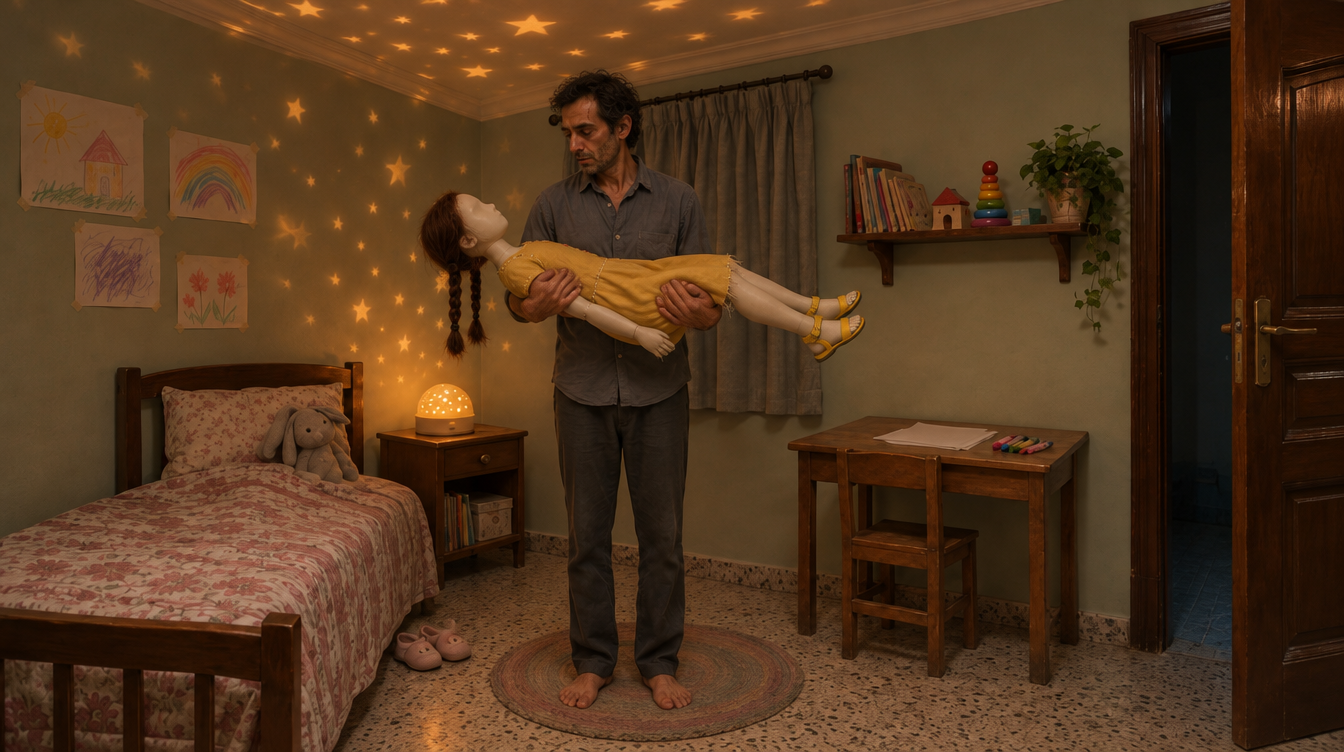
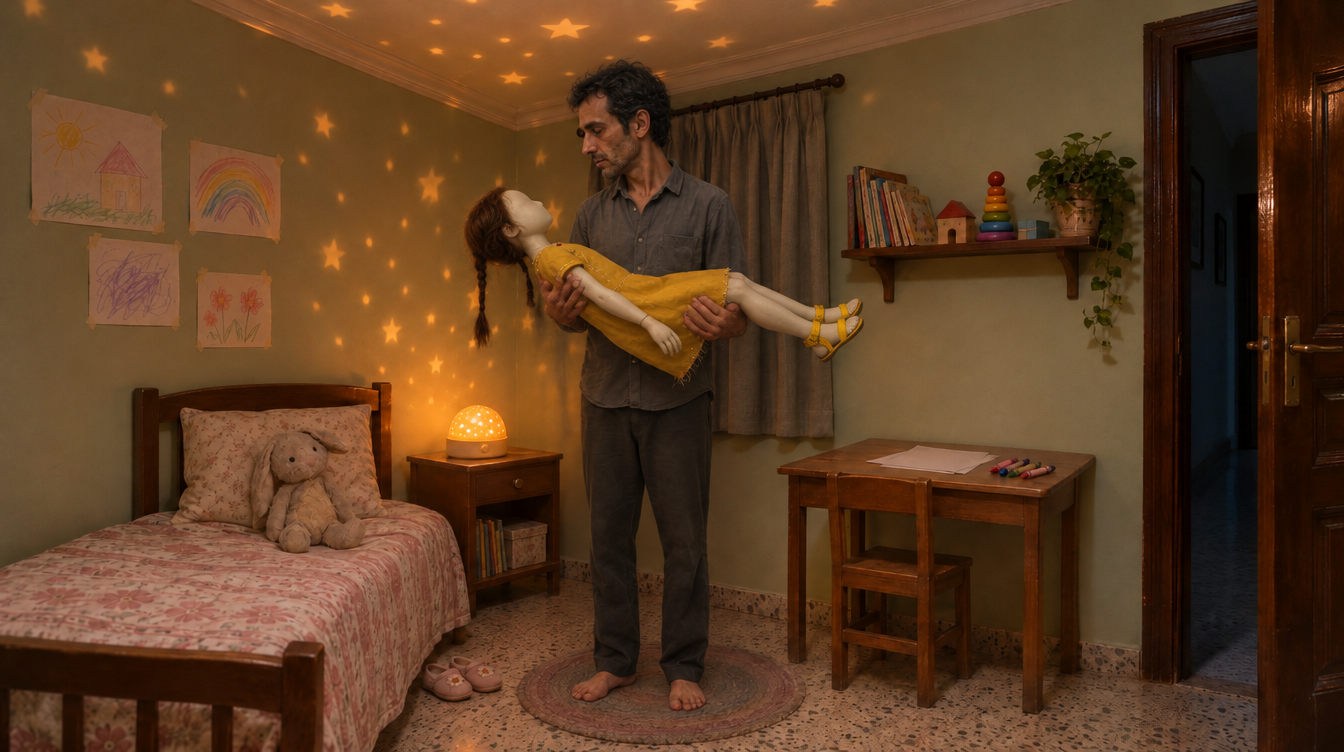
G28 start frame rebuilt on the exact L06 plate so the bed keeps its place and size
Claude-Session: https://claude.ai/code/session_01Fi6XRJHj6ujpGaMwkoN3Es

diff --git a/prompts.html b/prompts.html
@@ -1396,7 +1396,7 @@ CAMERA
 Tonal character: wide latitude, gentle highlight roll-off, rich detail held in the shadows.
 
 ACTION
-0.0s to 4.0s — At 0.5s he turns toward the bed and walks two slow steps to its side, carrying the mannequin level, its head toward the pillow. At 2.6s he stops beside the bed, still standing, the mannequin in his arms, and looks down at it.
+0.0s to 4.0s — At 0.5s he walks slowly to frame left, off the rug, three steps toward the side of the bed, carrying the mannequin level, its head toward the pillow. At 3.0s he stops beside the bed, still standing, the mannequin in his arms over the blanket, and looks down at it.
 
 PERFORMANCE
 Careful, quiet steps; his head bent over the figure; tenderness in his face. Real skin with visible pores and fine texture, living eyes with catch-lights, breath visible in the chest and shoulders.
@@ -1423,7 +1423,7 @@ POSITIVE LOCKS
 - Every paper, label and envelope is blank.
 - The camera holds the exact wide of the start frame for the whole shot.
 - The mannequin stays in his arms, lined up along the length of the bed.
-- The bed, the bedside table and the glowing night-light keep their exact places from the start frame.
+- The bed, the bedside table, the night-light, the desk and the rug keep the exact places and sizes of @image4.
 - Adam stays standing for the whole shot.</pre></section><section id='G29'><header><h2>G29</h2><div class='meta'><b>7 · Bedtime</b> · shots 46, 47, 48 · <span class='pill'>16s</span> <span class='pill'>16:9</span></div><button onclick="cp(this)">Copy prompt</button></header><div class='att'>Attach in order: <code>@image1 = adam</code><code>@image2 = doll-daughter</code><code>@image3 = P10_rabbit</code><code>@image4 = L06_nour-room</code></div><pre>SCENE CONTEXT
 Night in a child&#x27;s bedroom. @image1 tucks @image2 into bed and sets the stuffed rabbit beside it; he kisses its forehead and stays a moment too long as projected stars drift over his face; from the doorway he switches off the lamp and only the stars remain.
 

diff --git a/tools/build_prompts.py b/tools/build_prompts.py
@@ -459,12 +459,12 @@ run(id="G28", scene="7 · Bedtime", nums="45", look="P", attach=["adam", "doll-d
     map="Camera exactly as in the start frame: the whole room in one wide. Frame left: the bed along the left wall with {P10_rabbit} on the pillow, the bedside table and glowing night-light. Centre: the round rug. Frame right: the small desk and chair, the open door at the far right edge.",
     first="The first frame is the start image itself: Adam on the rug, the child mannequin across his arms with its head toward the bed, the bed empty except for the rabbit.",
     segs=[(4, None, "WS", "63°", "locked, eye level, the frame of the start image",
-           "At <0.5> he turns toward the bed and walks two slow steps to its side, carrying the mannequin level, its head toward the pillow. At <2.6> he stops beside the bed, still standing, the mannequin in his arms, and looks down at it.", [])],
+           "At <0.5> he walks slowly to frame left, off the rug, three steps toward the side of the bed, carrying the mannequin level, its head toward the pillow. At <3.0> he stops beside the bed, still standing, the mannequin in his arms over the blanket, and looks down at it.", [])],
     perf="Careful, quiet steps; his head bent over the figure; tenderness in his face.",
     phys="The mannequin keeps its rigid straight shape in his arms; only the wig's braids swing. Its legs stay clear of the furniture and walls.",
     light="Only the star night-light on the bedside table: amber stars drifting over the walls, the ceiling and Adam. White balance 4300K.",
     audio="Slow bare footsteps on terrazzo; the faint tick of the night-light motor.",
-    locks=["The camera holds the exact wide of the start frame for the whole shot.", "The mannequin stays in his arms, lined up along the length of the bed.", "The bed, the bedside table and the glowing night-light keep their exact places from the start frame.", "Adam stays standing for the whole shot."])
+    locks=["The camera holds the exact wide of the start frame for the whole shot.", "The mannequin stays in his arms, lined up along the length of the bed.", "The bed, the bedside table, the night-light, the desk and the rug keep the exact places and sizes of {L06_nour-room}.", "Adam stays standing for the whole shot."])
 
 run(id="G29", scene="7 · Bedtime", nums="46, 47, 48", look="P", attach=["adam", "doll-daughter", "P10_rabbit", "L06_nour-room"],
     ctx="Night in a child's bedroom. {adam} tucks {doll-daughter} into bed and sets the stuffed rabbit beside it; he kisses its forehead and stays a moment too long as projected stars drift over his face; from the doorway he switches off the lamp and only the stars remain.",

diff --git a/prompts.md b/prompts.md
@@ -1708,7 +1708,7 @@ CAMERA
 Tonal character: wide latitude, gentle highlight roll-off, rich detail held in the shadows.
 
 ACTION
-0.0s to 4.0s — At 0.5s he turns toward the bed and walks two slow steps to its side, carrying the mannequin level, its head toward the pillow. At 2.6s he stops beside the bed, still standing, the mannequin in his arms, and looks down at it.
+0.0s to 4.0s — At 0.5s he walks slowly to frame left, off the rug, three steps toward the side of the bed, carrying the mannequin level, its head toward the pillow. At 3.0s he stops beside the bed, still standing, the mannequin in his arms over the blanket, and looks down at it.
 
 PERFORMANCE
 Careful, quiet steps; his head bent over the figure; tenderness in his face. Real skin with visible pores and fine texture, living eyes with catch-lights, breath visible in the chest and shoulders.
@@ -1735,7 +1735,7 @@ POSITIVE LOCKS
 - Every paper, label and envelope is blank.
 - The camera holds the exact wide of the start frame for the whole shot.
 - The mannequin stays in his arms, lined up along the length of the bed.
-- The bed, the bedside table and the glowing night-light keep their exact places from the start frame.
+- The bed, the bedside table, the night-light, the desk and the rug keep the exact places and sizes of @image4.
 - Adam stays standing for the whole shot.
 ```
 
